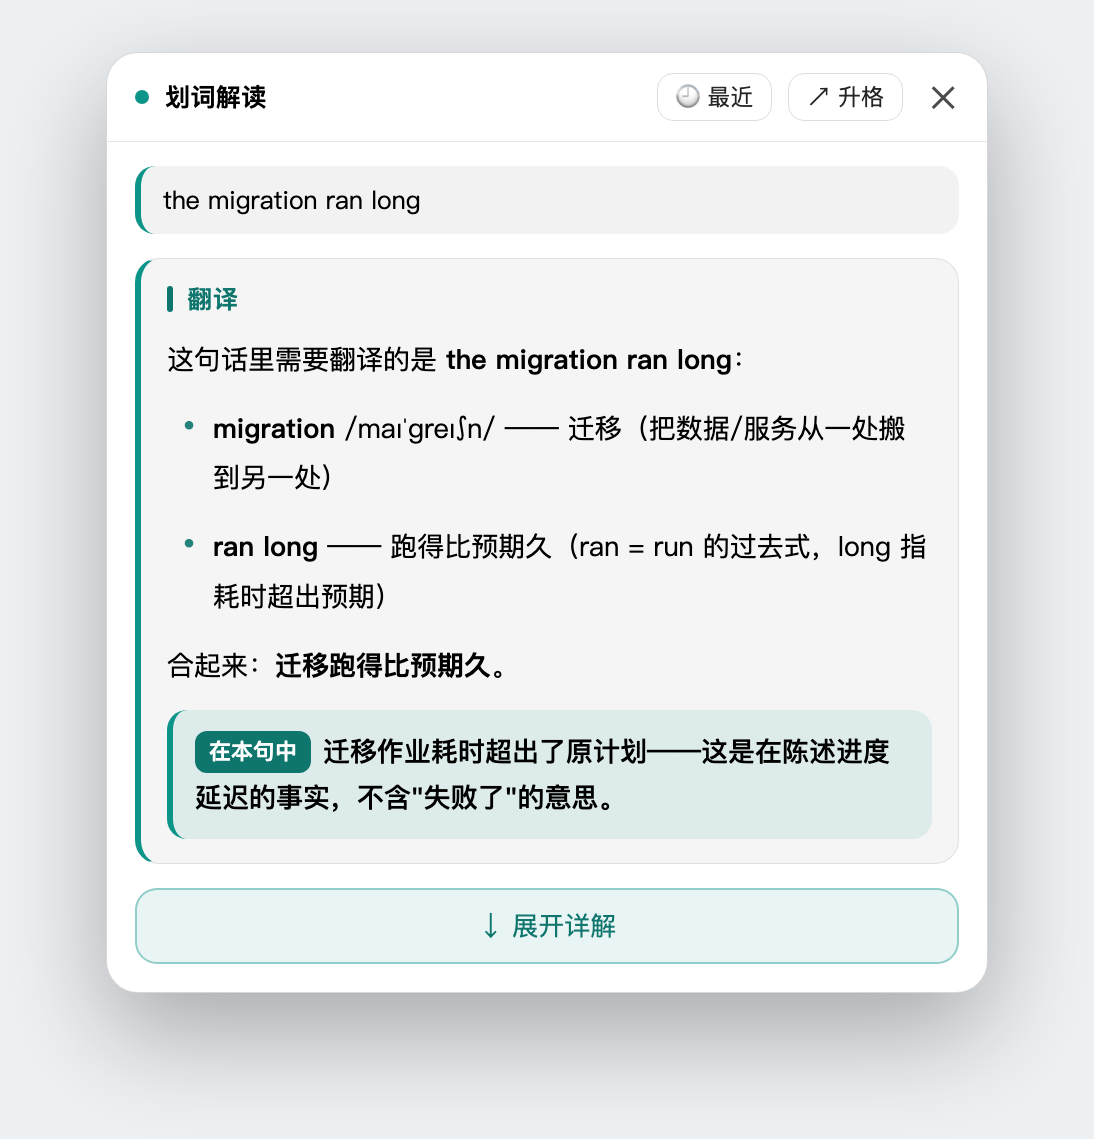
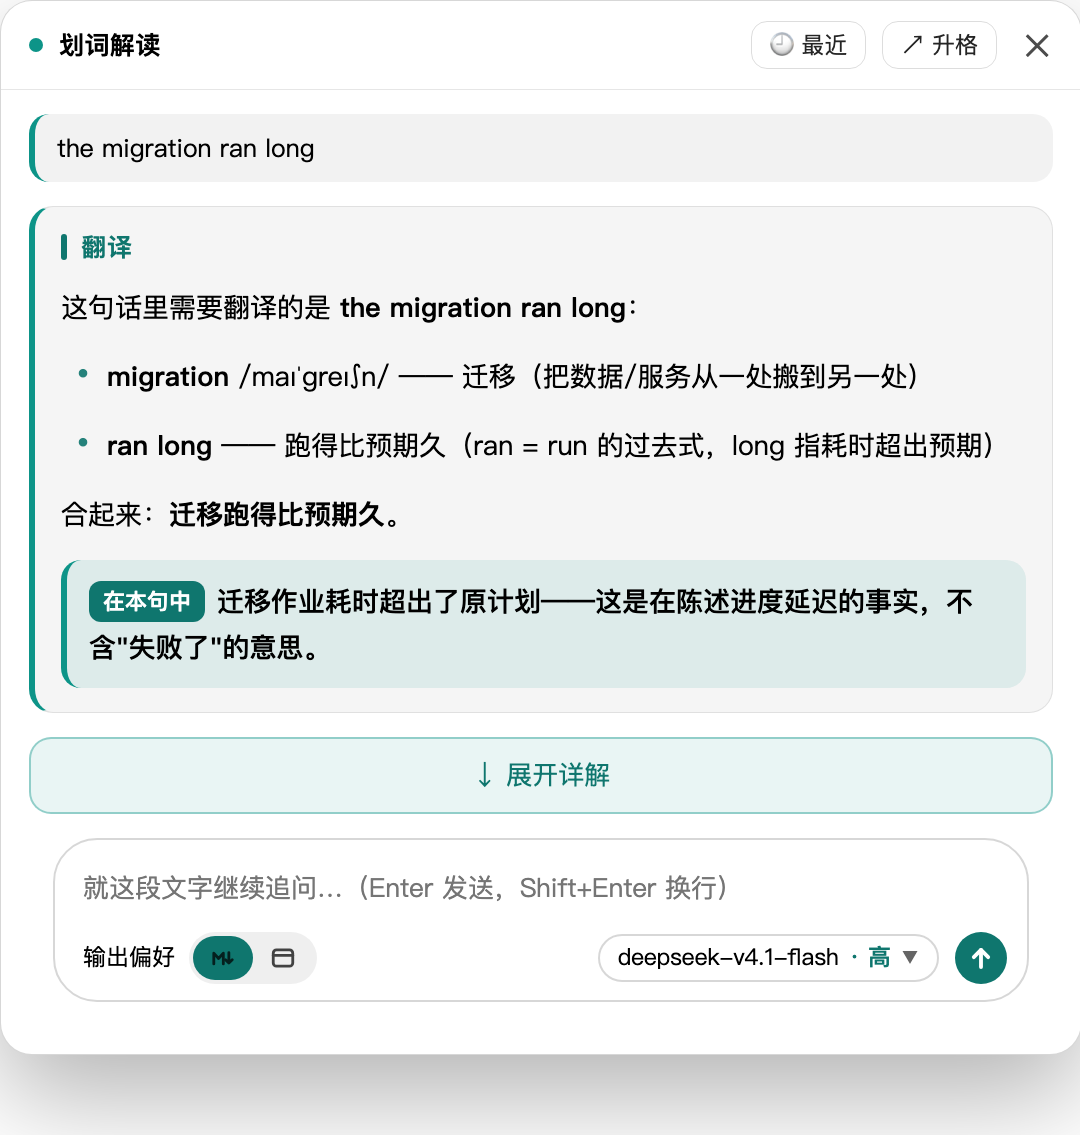
docs: 修正 README 演示图三处错误（输入框时机 / 网页图场景 / 尺寸统一）
用户指出的三个问题，逐条核实后修正：

① 首轮图漏了输入框
   真实行为：askRow.style.display = wide || translationReady —— **翻译一出来输入框
   就出现**（源码注释也写了"翻译一出来就能问，不必先展开详解"）。原 stage1 图没有
   输入框，与真机不符。现补上（含输出偏好 / 模型胶囊 / 发送键）。
   同时核对宽度：输入框是 .dsh-sel-ask{margin:0 12px}（在面板内），正文文字左缘是
   body padding-left:14px，两者基本等宽，符合用户描述。

② 网页图场景用错
   原图问的是"帮我把三种缓存策略画成一页对比"，属于"要网页"的场景，但图里既没展示
   网页输出、翻译节也空着。现改为：详解节直接给渲染出的网页（对照表 + 条形图），
   上方带「预览 / 源码」页签与「⤡ 还原」，输入区开关拨到「网页」，
   下方是用户那句提问——完整呈现"网页优先"这条链路。

③ 图片尺寸不一 + 带背景
   - 演示页去掉灰底与 .demo-wrap 留白，只渲染小窗本体（纯白底、宽 540）
   - 统一面板宽度 540（原来 translation 阶段被 CSS 收窄到 440，导致图宽不一致）
   - crop-png.mjs 增加可配「背景容差」：面板投影让背景在 247~255 之间浮动，
     原容差 3 判不出背景，裁剪失效（1080x3200 原样输出）；现默认容差 8，
     裁剪恢复正常
   - 结果：4 张图宽度全部 1080（2x），高度按内容 1044 / 1135 / 1518 / 1985
   - README 里 width 属性统一为 540（原来 440/540 混用）

验证：489 条断言全绿；4 张图路径均存在。

Changed region(s): [[0.0, 0.0, 1.0, 0.9868], [0.9472, 0.0308, 0.9778, 0.0617]]

diff --git a/README.md b/README.md
@@ -25,7 +25,7 @@
 
 点开面板**先只出翻译**（上下文窗口收窄到 8 条消息，首字最快）；翻译出来后才出现 **`↓ 展开详解`**，点了才用完整会话背景（24 条消息）做深度解读。想要快就停在第一段，想要透就展开——**不强迫你为深度等首字**。
 
-<img src="assets/stage1.png" alt="首轮：只有翻译一节 + 展开详解按钮" width="440">
+<img src="assets/stage1.png" alt="首轮：只有翻译一节 + 展开详解按钮" width="540">
 
 ### 翻译：按选中内容的语言和形态自适应
 
@@ -52,7 +52,7 @@
 
 如果选中的是代码（在 `<pre>/<code>` 里，或文本特征像代码），首轮标题变成「**注释**」：整个回答是一个代码块，里面是**注释 + 原代码交替**的批注清单——每条语句**前面**一行该语言的注释符号（`//`、`#`、`--`、`<!--`…），原代码逐字不变。注释行弱化显示，一眼分得清哪行是代码、哪行是批注。缩进按原行起始列对齐，折行也不会跑到注释左边。
 
-<img src="assets/code.png" alt="选中代码：注释与原代码交替的批注清单" width="440">
+<img src="assets/code.png" alt="选中代码：注释与原代码交替的批注清单" width="540">
 
 ### 临时对话小窗
 
